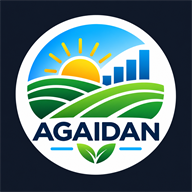
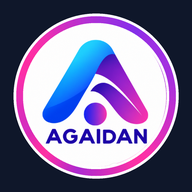
Add files via upload
Corrige el menú móvil y actualiza el icono de la PWA.

diff --git a/service-worker.js b/service-worker.js
@@ -1,5 +1,5 @@
 /* Cachea solo los recursos de la aplicación; nunca datos de usuario ni documentos. */
-const CACHE = 'agaidan-pwa-v2';
+const CACHE = 'agaidan-pwa-v3';
 const SHELL = ['./', './index.html', './manifest.webmanifest', './icons/icon-192.png', './icons/icon-512.png', './icons/icon-maskable-512.png'];
 self.addEventListener('install', event => event.waitUntil(caches.open(CACHE).then(cache => cache.addAll(SHELL)).then(() => self.skipWaiting())));
 self.addEventListener('activate', event => event.waitUntil(caches.keys().then(keys => Promise.all(keys.filter(key => key.startsWith('agaidan-pwa-') && key !== CACHE).map(key => caches.delete(key)))).then(() => self.clients.claim())));
@@ -17,3 +17,4 @@ self.addEventListener('fetch', event => {
     return response;
   })));
 });
+

diff --git a/GUIA_DESPLIEGUE.md b/GUIA_DESPLIEGUE.md
@@ -17,4 +17,5 @@ No compartas un mismo dispositivo/navegador entre clientes: la información loca
 
 ## Actualizaciones y caché
 
-El service worker cachea solo los archivos públicos de la aplicación para reabrirla sin conexión después de visitar el sitio una vez. No cachea documentos ni envía datos. Al desplegar una actualización, incrementa el identificador `agaidan-pwa-v1` en `service-worker.js` para renovar el shell. Para obtener espacio nuevo, el navegador puede requerir conexión.
+El service worker cachea solo los archivos públicos de la aplicación para reabrirla sin conexión después de visitar el sitio una vez. No cachea documentos ni envía datos. Al desplegar una actualización, incrementa el identificador `agaidan-pwa-v3` en `service-worker.js` para renovar el shell. Para obtener espacio nuevo, el navegador puede requerir conexión.
+
